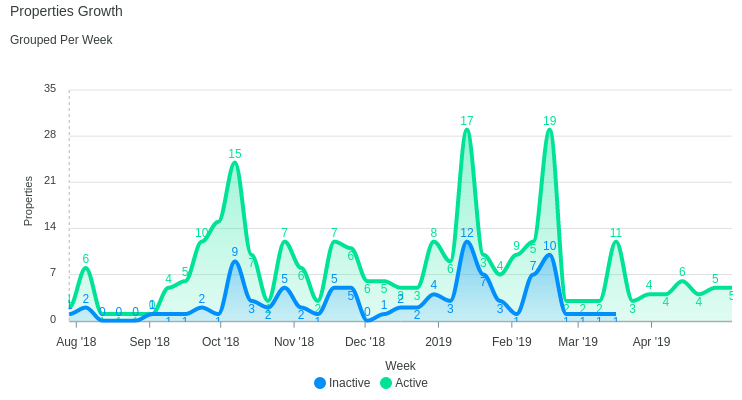
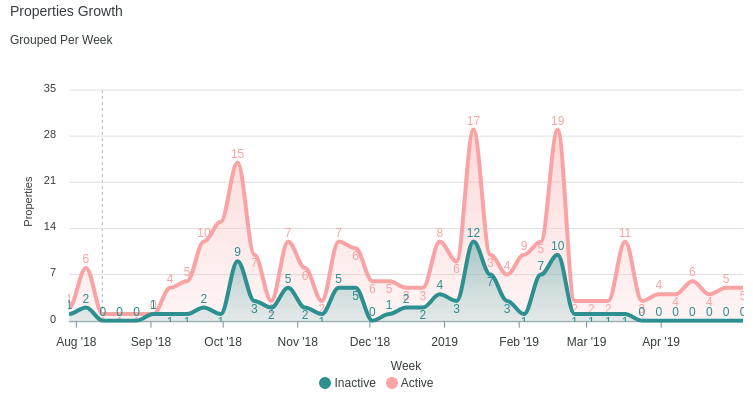
Renew basic charts examples

diff --git a/lib/apexcharts/utils/date_time.rb b/lib/apexcharts/utils/date_time.rb
@@ -38,12 +38,8 @@ module Apexcharts::Utils
 
     def self.xtype input
       case input
-      when Time
+      when Time, DateTime, Date
         'datetime'
-      when DateTime, Date
-        'datetime'
-      when Date
-        'date'
       else
         if DateTime.iso8601(input).iso8601 == input
           'datetime'

diff --git a/lib/apexcharts/charts/polar.rb b/lib/apexcharts/charts/polar.rb
@@ -1,4 +1,3 @@
-require 'pry'
 module Apexcharts
   class PolarChart
     def initialize data, options={}

diff --git a/lib/apexcharts/series/polar.rb b/lib/apexcharts/series/polar.rb
@@ -1,4 +1,3 @@
-require 'pry'
 module Apexcharts
   class PolarSeries
     attr_reader :sanitized

diff --git a/README.md b/README.md
@@ -66,7 +66,7 @@ Example options used for cartesian charts:
 #### Area Chart
 
 ```erb
-<%= area_chart(series, options) %>
+<%= area_chart(series, {**options, theme: 'palette5'}) %>
 ```
 ![Example Area Chart](images/area_chart.png)
 
@@ -74,7 +74,7 @@ Example options used for cartesian charts:
 #### Column Chart
 
 ```erb
-<%= column_chart(series, options) %>
+<%= column_chart(series, {**options, theme: 'palette4'}) %>
 ```
 ![Example Column Chart](images/column_chart.png)
 
@@ -82,25 +82,22 @@ Example options used for cartesian charts:
 #### Bar Chart
 
 ```erb
-<%= bar_chart(series, options) %>
+<%= bar_chart(series, {**options, height: 700, theme: 'palette7'}) %>
 ```
 ![Example Bar Chart](images/bar_chart.png)
-
-I don't know if datetime in Y-axis is possible or not in apexcharts.  
-If it's possible then I will fix it.
 
 
 #### Scatter Chart
 
 ```erb
-<%= scatter_chart(series, options) %>
+<%= scatter_chart(series, {**options, theme: 'palette3'}) %>
 ```
 ![Example Scatter Chart](images/scatter_chart.png)
 
 
 #### Mixed Chart
 
-You can mix charts by using `mixed_chart` or `combo_chart` methods. For example:
+You can mix charts by using `mixed_chart` or `combo_chart` methods. For example:  
 Given that:
 ```ruby
 @total_properties = Property.group_by_week(:created_at).count
@@ -131,6 +128,20 @@ You can synchronize charts by using `syncing_chart` or `synchronized_chart` meth
 ![Example Syncing Chart](images/syncing_chart.gif)
 
 
+#### Annotations
+
+All cartesian charts can have annotations, for example:
+
+```erb
+<%= line_chart(series, options) do %>
+  <% x_annotation(value: ('2019-01-06'..'2019-02-24'), text: "Busy Time", color: 'green') %>
+  <% y_annotation(value: 29, text: "Max Properties", color: 'blue') %>
+  <% point_annotation(value: ['2018-10-07', 24], text: "First Peak", color: 'magenta') %>
+<% end %>
+```
+![Example Line Chart with Annotations](images/chart_with_annotations.png)
+
+
 ### Polar Charts
 
 #### Pie Chart
@@ -152,20 +163,6 @@ You can synchronize charts by using `syncing_chart` or `synchronized_chart` meth
 <%= donut_chart([25, 100, 200, 125], theme: 'palette4' %>
 ```
 ![Example Pie Chart](images/donut_chart.gif)
-
-
-### Annotations
-
-All cartesian charts can have annotations, for example:
-
-```erb
-<%= line_chart(series, options) do %>
-  <% x_annotation(value: ('2019-01-06'..'2019-02-24'), text: "Busy Time", color: 'green') %>
-  <% y_annotation(value: 29, text: "Max Properties", color: 'blue') %>
-  <% point_annotation(value: ['2018-10-07', 24], text: "First Peak", color: 'magenta') %>
-<% end %>
-```
-![Example Line Chart with Annotations](images/chart_with_annotations.png)
 
 
 ## Installation
